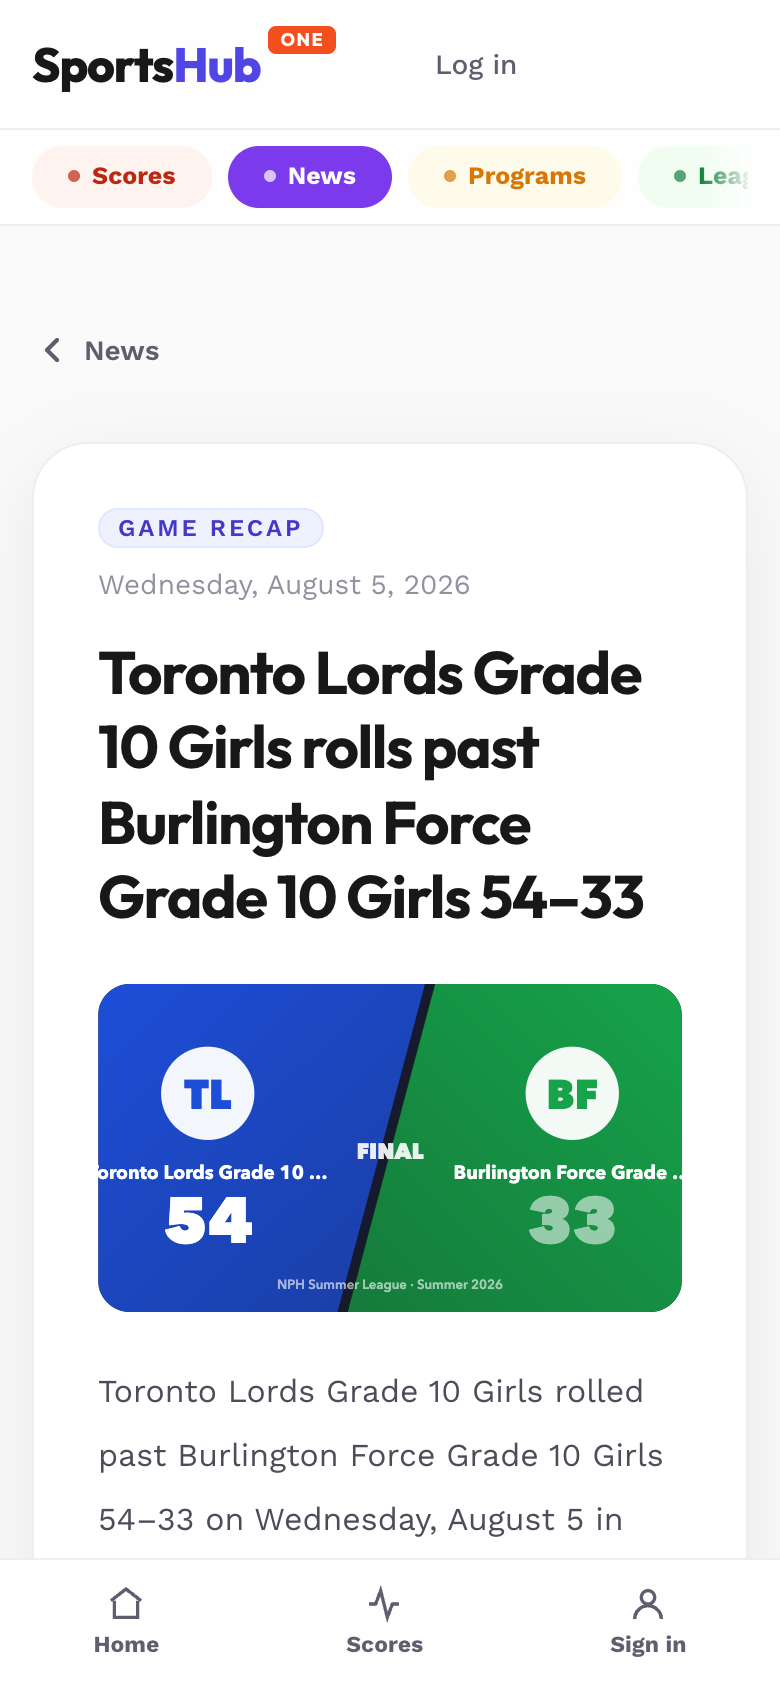
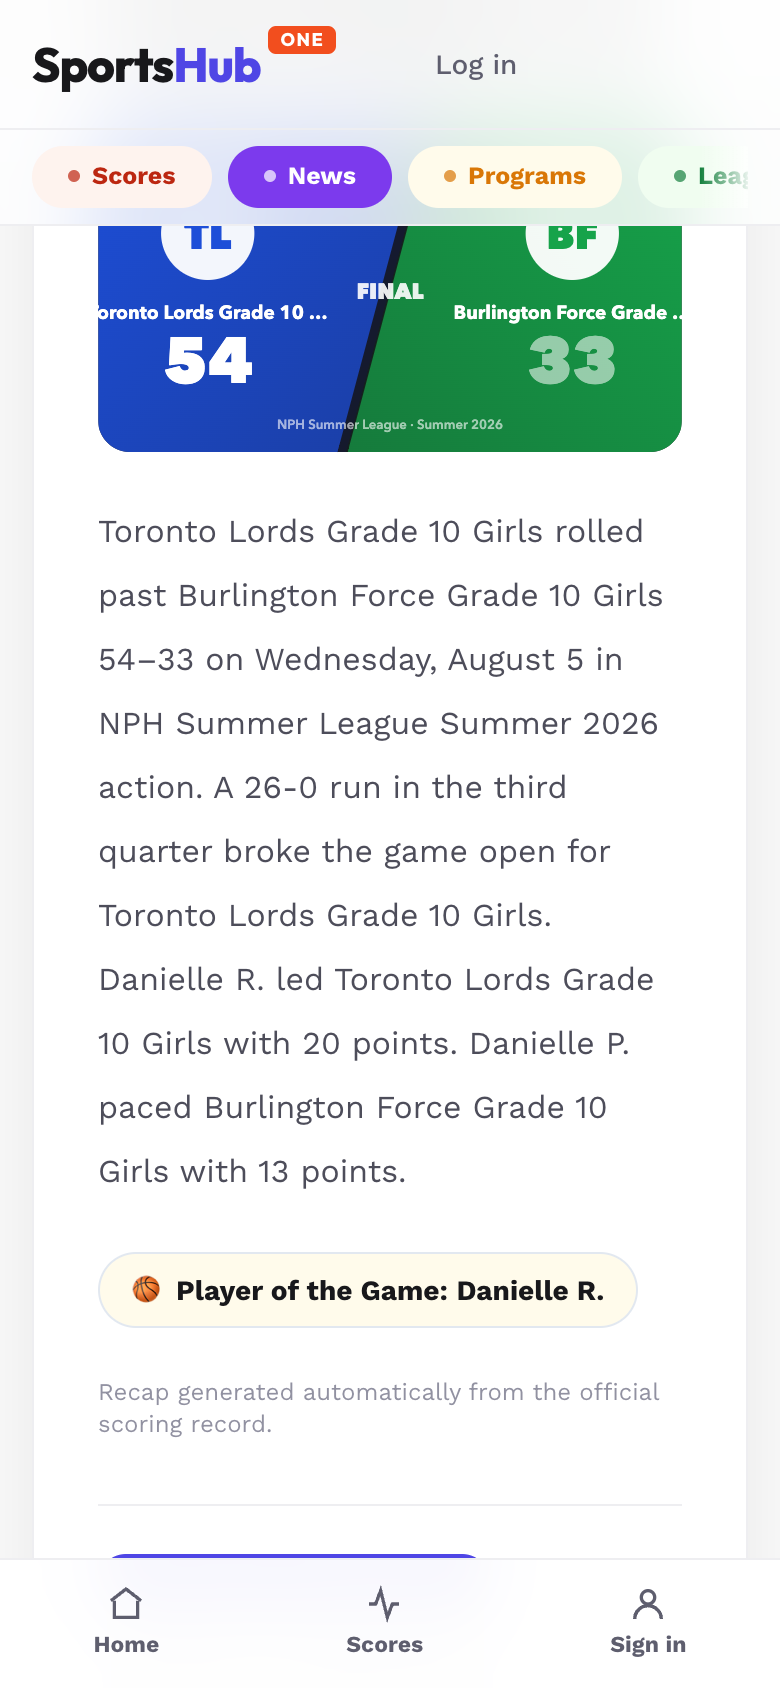
homepage preview round 2: launch line in your face, slogans carry their accents, seven identities, one field for email or phone, and the 25-shot contact sheet at /dev/home-shots
The recap in the band now starts at the score art, past the header white
space. Punch ledger gains the owner's screenshot-round findings: plain
white league page, recap header spacing, emoji-as-icon POTG chip, two
seed-copy blemishes.

diff --git a/apps/web/src/app/dev/home-preview/preview.tsx b/apps/web/src/app/dev/home-preview/preview.tsx
@@ -22,17 +22,60 @@ import Link from "next/link"
 import { CourtBackdrop } from "@/components/ui"
 import { DEMOS, type DemoAudience } from "@/app/demos/registry"
 
-/* Rotating hero slogans. All from the approved creative set. */
-const SLOGANS = [
-  "Youth basketball. All of it. One app.",
-  "Registration to final buzzer, already built.",
-  "Tryouts become signed, paid rosters.",
-  "Game moved? Everyone already knows.",
-  "Watch every game live.",
-  "Your name in the news.",
+/* Rotating hero slogans, from the approved creative set. Each carries its own
+   accent, the way the product home page colours "All of it." in gold. */
+const SLOGANS: { key: string; node: React.ReactNode }[] = [
+  {
+    key: "one-app",
+    node: (
+      <>
+        Youth basketball. <span className="text-gold-400">All of it.</span> One app.
+      </>
+    ),
+  },
+  {
+    key: "already-built",
+    node: (
+      <>
+        Registration to final buzzer, <span className="text-court-400">already built</span>.
+      </>
+    ),
+  },
+  {
+    key: "rosters",
+    node: (
+      <>
+        Tryouts become <span className="text-gold-400">signed, paid rosters</span>.
+      </>
+    ),
+  },
+  {
+    key: "game-moved",
+    node: (
+      <>
+        <span className="text-hoop-400">Game moved?</span> Everyone already knows.
+      </>
+    ),
+  },
+  {
+    key: "watch-live",
+    node: (
+      <>
+        Watch every game <span className="text-live-500">live</span>.
+      </>
+    ),
+  },
+  {
+    key: "in-the-news",
+    node: (
+      <>
+        <span className="text-play-300">Your name</span> in the news.
+      </>
+    ),
+  },
 ]
 
-const IDENTITIES = ["Parent", "Club", "League", "Referee", "Player"] as const
+const IDENTITIES = ["Player", "Parent", "Club", "League", "Referee", "Trainer", "Media"] as const
 type Identity = (typeof IDENTITIES)[number]
 
 /* Audience pill tones on light cards: parents indigo, clubs orange, leagues green. */
@@ -153,15 +196,15 @@ function Hero() {
       </header>
 
       <div className="hp-rise mx-auto flex w-full max-w-4xl flex-col items-center px-5 pb-24 pt-20 text-center sm:pt-28">
-        <p className="inline-flex items-center gap-2 rounded-full bg-white/10 px-4 py-1.5 text-[13px] font-semibold uppercase tracking-[0.14em] text-gold-400 ring-1 ring-white/15">
-          <span className="h-1.5 w-1.5 rounded-full bg-gold-400" aria-hidden="true" />
-          Coming this fall
-    </p>
+        <p className="flex items-center gap-3 text-2xl font-bold uppercase tracking-[0.18em] text-gold-400 sm:text-3xl">
+          <span className="h-2.5 w-2.5 rounded-full bg-gold-400 motion-safe:animate-pulse" aria-hidden="true" />
+          Launching this fall
+        </p>
 
         <h1 className="mt-7 grid w-full text-balance text-[44px] font-bold leading-[1.05] tracking-tight text-white sm:text-6xl lg:text-7xl">
           {SLOGANS.map((s, i) => (
             <span
-              key={s}
+              key={s.key}
               aria-hidden={i !== active}
               className={`col-start-1 row-start-1 transition-opacity ${
                 i === active
@@ -169,7 +212,7 @@ function Hero() {
                   : "pointer-events-none opacity-0 duration-300"
               }`}
             >
-              {s}
+              {s.node}
             </span>
           ))}
         </h1>
@@ -210,14 +253,15 @@ function Hero() {
           </fieldset>
 
           <div className="mt-4 flex flex-col gap-2.5 sm:flex-row">
-            <label className="sr-only" htmlFor="hp-email">
-              Email
+            <label className="sr-only" htmlFor="hp-contact">
+              Email or phone number
             </label>
             <input
-              id="hp-email"
-              type="email"
+              id="hp-contact"
+              type="text"
+              autoComplete="email"
               required
-              placeholder="you@example.com"
+              placeholder="you@example.com or (416) 555-0134"
               className="min-w-0 flex-1 rounded-xl border-0 bg-white px-5 py-3.5 text-base text-ink-950 shadow-lg ring-1 ring-white/30 placeholder:text-ink-400 focus:outline-none focus:ring-2 focus:ring-gold-400"
             />
             <button
@@ -229,7 +273,7 @@ function Hero() {
           </div>
 
           <p className="mt-3 text-[13px] text-white/55">
-            We&apos;ll email you about the launch and nothing else. Unsubscribe anytime.
+            We&apos;ll reach you about the launch and nothing else. Unsubscribe anytime.
           </p>
 
           {submitted && (
@@ -635,21 +679,9 @@ function PreviewNotes() {
         </p>
         <ul className="mt-4 list-disc space-y-3 pl-5 text-[15px] leading-relaxed text-ink-700">
           <li>
-            <span className="font-semibold">Email or phone capture:</span> the earlier ruling said
-            phone, the latest word said email, so the form above uses email. The phone version of
-            the same field:
-            <span className="mt-2 flex max-w-sm gap-2">
-              <input
-                type="tel"
-                readOnly
-                value="(416) 555-0134"
-                className="min-w-0 flex-1 rounded-lg border border-ink-200 bg-white px-4 py-2 text-[15px] text-ink-950"
-                aria-label="Phone capture variant"
-              />
-              <span className="rounded-lg bg-ink-950 px-4 py-2 text-[15px] font-bold text-white">
-                Text me at launch
-              </span>
-            </span>
+            <span className="font-semibold">Capture field:</span> takes email or phone, per your
+            call. Which one arrived gets detected at wire time, along with validation and the
+            anti-bot layer.
           </li>
           <li>
             The screenshots are real captures from the running app. Signup buttons are hidden in

diff --git a/apps/web/src/app/dev/home-shots/page.tsx b/apps/web/src/app/dev/home-shots/page.tsx
@@ -1,0 +1,92 @@
+import fs from "node:fs"
+import path from "node:path"
+
+/**
+ * Contact sheet for the launch homepage screenshots (owner request,
+ * 2026-08-17): every candidate capture from the expedition, framed and
+ * labelled, so the owner can pick the set the homepage band will use.
+ *
+ * Reads apps/web/public/home-preview/shots/ at request time; re-running
+ * scripts/demo/capture-home-expedition.mjs refreshes the sheet on reload.
+ * Dev-only route, never public in production.
+ */
+
+export const dynamic = "force-dynamic"
+
+const GROUPS: { title: string; prefixes: string[] }[] = [
+  { title: "The live game", prefixes: ["game-live"] },
+  { title: "News and recaps", prefixes: ["news"] },
+  { title: "Feed and browse", prefixes: ["home-feed", "leagues-browse"] },
+  { title: "League: standings and leaders", prefixes: ["league-"] },
+  { title: "Club page", prefixes: ["club-page"] },
+  { title: "The parent's phone, signed in", prefixes: ["parent-"] },
+]
+
+function readShots(): string[] {
+  const dir = path.join(process.cwd(), "public", "home-preview", "shots")
+  try {
+    return fs
+      .readdirSync(dir)
+      .filter((f) => f.endsWith(".png"))
+      .sort()
+  } catch {
+    return []
+  }
+}
+
+export default function HomeShotsPage() {
+  const files = readShots()
+  const grouped = GROUPS.map((g) => ({
+    title: g.title,
+    files: files.filter((f) => g.prefixes.some((p) => f.startsWith(p))),
+  }))
+  const claimed = new Set(grouped.flatMap((g) => g.files))
+  const rest = files.filter((f) => !claimed.has(f))
+  if (rest.length) grouped.push({ title: "Everything else", files: rest })
+
+  return (
+    <main className="min-h-screen bg-ink-100 px-6 py-10">
+      <div className="mx-auto max-w-7xl">
+        <h1 className="text-3xl font-bold tracking-tight text-ink-950">
+          Homepage screenshot contact sheet
+        </h1>
+        <p className="mt-2 max-w-2xl text-base text-ink-600">
+          {files.length} captures from the running app, signup chrome hidden. Tell me the file
+          names you want on the homepage and how you want them arranged.
+        </p>
+
+        {grouped.map(
+          (group) =>
+            group.files.length > 0 && (
+              <section key={group.title} className="mt-12">
+                <h2 className="text-xl font-bold text-ink-950">{group.title}</h2>
+                <div className="mt-4 flex flex-wrap items-start gap-6">
+                  {group.files.map((file) => {
+                    const phone = file.includes("-phone")
+                    return (
+                      <figure
+                        key={file}
+                        className={phone ? "w-[240px]" : "w-full max-w-[560px]"}
+                      >
+                        <div className="overflow-hidden rounded-xl bg-ink-900 p-1.5 shadow-lg">
+                          {/* eslint-disable-next-line @next/next/no-img-element */}
+                          <img
+                            src={`/home-preview/shots/${file}`}
+                            alt={file.replace(/[-.]/g, " ")}
+                            className="w-full rounded-lg"
+                          />
+                        </div>
+                        <figcaption className="mt-1.5 break-all font-mono text-[13px] text-ink-600">
+                          {file.replace(".png", "")}
+                        </figcaption>
+                      </figure>
+                    )
+                  })}
+                </div>
+              </section>
+            )
+        )}
+      </div>
+    </main>
+  )
+}

diff --git a/docs/roadmap/product-corrections-from-demo-feedback.md b/docs/roadmap/product-corrections-from-demo-feedback.md
@@ -27,3 +27,24 @@ here was fixed in the demo job: this is the product's list.
 ## Naming
 
 - The ⋯ menu on a board gym section has no "add a court" item. Courts are changed with a stepper whose button then reads "We rented 3 courts". It works, but a league looking for "add a court" will not find those words. (`plan/plan-ui.tsx` `GymMenu`)
+
+## From the homepage screenshot round (owner feedback, 2026-08-17)
+
+- **Public league page reads plain white.** The owner, looking at a real capture of it on the
+  launch page: "again plain white. If that is a real screen then we need some work on that."
+  The standings and score cards sit on an untinted ground with no court system anywhere below
+  the hero band. (`app/(public)/league/[id]/page.tsx`)
+- **News article header wastes the top of the phone.** Too much white space above the fold: the
+  back control, the GAME RECAP pill and the date could be flattened into one lower row so the
+  title and score art land higher. (`app/(public)/news/[slug]/page.tsx`)
+- **Score art ruling renewed:** the big two-colour team panel on recaps stays for now ("keep it
+  till we make a better decision"), so no work on it yet, but it is not considered settled.
+- **Player of the Game chip uses a basketball emoji as its icon.** House rule is SVG icons,
+  never emoji. (recap article body)
+- **Recap footer line** "Recap generated automatically from the official scoring record" is the
+  kind of machine confession the copy law now removes; reword to name the source, not the
+  automation ("From the official scoring record").
+- **Seeded chat copy carries an em-dash on camera**: "Carpool from the west end — two seats,
+  message me." in the Lords Grade 9 team chat (seed-nph-demo). Sweep seed strings next reseed.
+- **Seeded event time litter**: "NPH Summer Media Day" sits at 2:54 to 6:54 AM on the family
+  calendar. Reseed with a sane time.
